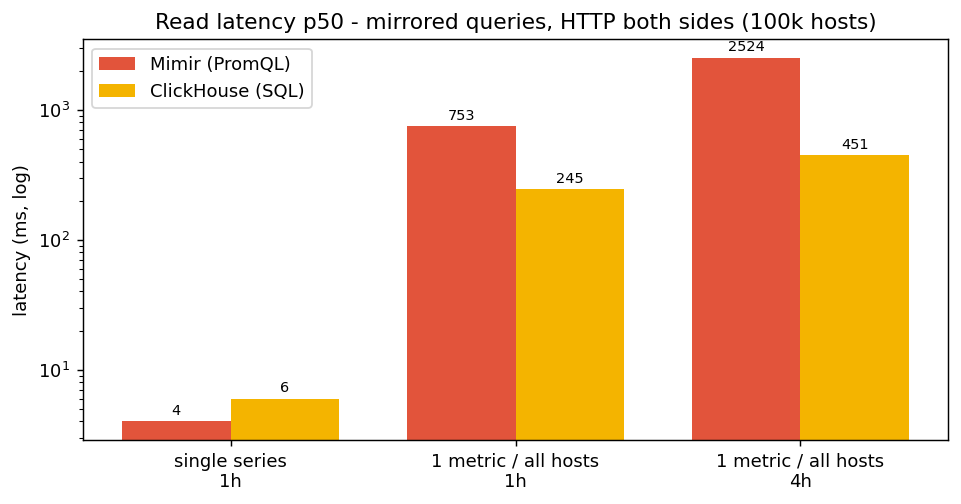
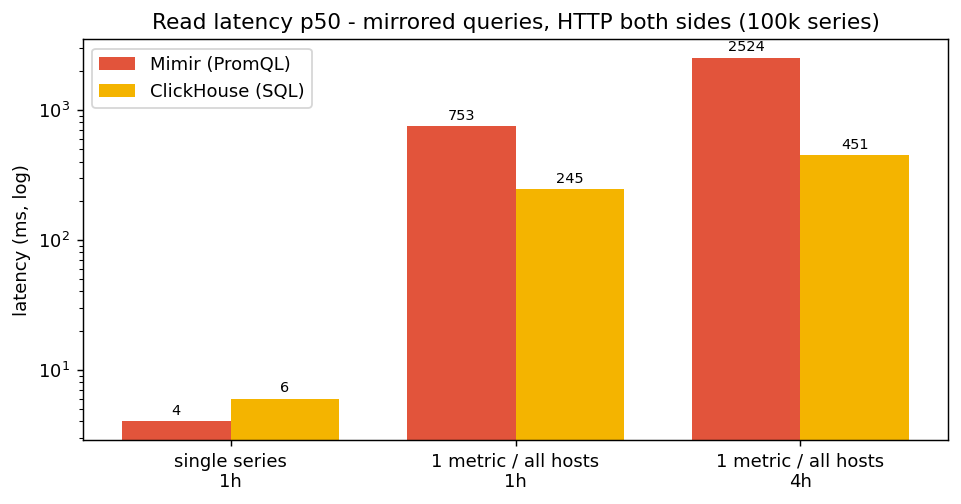
docs: Tier 1 README clarity fixes
- Storage: show 1-copy (2.88 GiB) and RF=2 (~5.76 GiB) footprints; compression
  is the real win, total footprint is close to Mimir once replication counts
- Read chart title: 100k hosts -> 100k series (10k hosts x 10 metrics)
- Disambiguate the coincidental 355 s (Mimir = 72M slice, ~5300 s full-scale;
  ClickHouse RF=3 = full 1.08 B)
- Pin the CPU-time multiplier to one RF=3 basis (~590 vs ~28,700 = ~49x) across
  table, prose, caveat and chart; mono comparison 22x -> 18x

Regenerated docs/charts/cpu_time.png and read_gradient.png.

Claude-Session: https://claude.ai/code/session_01Q2r3hZTuTyfpBMdWWRLmXr

Changed region(s): [[0.1561, 0.0298, 0.9365, 0.0595]]

diff --git a/scripts/plots.py b/scripts/plots.py
@@ -48,8 +48,8 @@ save(fig, "write_throughput.png")
 
 # 2) CPU-time to ingest the full dataset (core-seconds), log scale.
 fig, ax = plt.subplots(figsize=(6.5, 4))
-bars(ax, ["ClickHouse\n(ingest+RF=2)", "Mimir mono\n(RF=1)", "Mimir cluster\n(RF=3)"],
-     [500, 10800, 28700], [CH, MI, MI], lambda v: f"{v:,.0f}")
+bars(ax, ["ClickHouse\n(ingest+RF=3)", "Mimir mono\n(RF=1)", "Mimir cluster\n(RF=3)"],
+     [590, 10800, 28700], [CH, MI, MI], lambda v: f"{v:,.0f}")
 ax.set_yscale("log")
 ax.set_ylabel("CPU-time (core-seconds, log)")
 ax.set_title("CPU cost to ingest 1.08 B points")
@@ -71,7 +71,7 @@ for bs in (b1, b2):
 ax.set_yscale("log")
 ax.set_xticks(list(x)); ax.set_xticklabels(groups)
 ax.set_ylabel("latency (ms, log)")
-ax.set_title("Read latency p50 - mirrored queries, HTTP both sides (100k hosts)")
+ax.set_title("Read latency p50 - mirrored queries, HTTP both sides (100k series)")
 ax.legend()
 save(fig, "read_gradient.png")
 

diff --git a/README.md b/README.md
@@ -101,9 +101,13 @@ Measured paths for the same 1.08 billion points:
 
 **Equal replication (RF=3).** Replicating ClickHouse to RF=3 (108M rows to three replicas,
 324M row-copies) took 82 s of server-side work on top of the client ingest, so a fully RF=3
-ClickHouse lands the dataset in roughly 355 s and about 590 core-seconds. Even at the same RF=3
-as Mimir, that is ~15x faster and ~49x cheaper in CPU than Mimir's cluster run. The RF asymmetry
-is not what drives the gap.
+ClickHouse lands the **full 1.08 B points** in roughly 355 s and about 590 core-seconds. Even at
+the same RF=3 as Mimir, that is ~15x faster and ~49x cheaper in CPU than Mimir's cluster run. The
+RF asymmetry is not what drives the gap.
+
+(Watch the table: the Mimir real-time row is also 355 s, but that is for a 72M-point now-anchored
+slice, not the full dataset. Full-scale Mimir at 203 k/s would take ~5,300 s, in line with the
+backfill. The two 355 s figures are a coincidence, not parity.)
 
 Read the ClickHouse and Mimir rows with the asymmetry in mind (see Caveats): the ClickHouse
 client path is single node, and its cluster writes are server-side INSERT SELECT with no client
@@ -127,12 +131,16 @@ top of the ingest, so even a replicated ClickHouse finishes the volume in minute
 
 ### Storage
 
-| | ClickHouse (one copy) | Mimir (RustFS blocks) |
+| | ClickHouse | Mimir (RustFS blocks) |
 |---|---|---|
-| On disk | 2.88 GiB (4.4x compression) | 6.0 GiB |
+| On disk, one copy | 2.88 GiB (4.4x compression) | 6.0 GiB |
+| On disk, as replicated | ~5.76 GiB (RF=2) | 6.0 GiB (one compacted copy, S3-durable) |
 
-Different durability models, so read this loosely: ClickHouse replicates across the cluster at
-RF=2, while Mimir keeps one compacted copy in object storage with durability handled by S3.
+The real ClickHouse win here is **compression** (4.4x): one copy is ~2x smaller than Mimir's
+blocks. Total footprint is a different story and depends on the durability model. ClickHouse
+stores RF=2 on cluster disks (~5.76 GiB), while Mimir keeps a single compacted copy in object
+storage and leans on S3 for durability. Counting replication, the two land close together, so
+don't read the 2.88-vs-6.0 gap as a 2x storage saving.
 
 ### Resource consumption during the write (from SigNoz)
 
@@ -141,17 +149,19 @@ RF=2, while Mimir keeps one compacted copy in object storage with durability han
 | CPU, client ingest (single node) | ~1.45 cores on the busiest node | not applicable |
 | CPU, cluster write | ~2.3 cores across 4 nodes (RF=2 INSERT SELECT) | ~5.5 cores across 3 pods |
 | Peak memory | ~1.0 GiB (busiest node) | ~0.9 GiB per pod |
-| CPU-time for the full dataset | ~500 core-seconds (ingest + RF=2 replicate) | ~28,700 core-seconds (RF=3) |
+| CPU-time for the full dataset | ~590 core-seconds (ingest + RF=3 replicate) | ~28,700 core-seconds (RF=3) |
 
-Mimir spent roughly 50x more CPU-time than ClickHouse for the same data. The replication factor
-(3 vs 2) explains only about 1.5x of that. The rest is architectural: the per-sample remote-write
-path (protobuf, RF fan-out, TSDB head) against columnar batch inserts.
+At equal replication (RF=3 on both sides), Mimir spent ~49x more CPU-time than ClickHouse for the
+same data (~590 vs ~28,700 core-seconds). Since the RF is now equal, that whole gap is
+architectural, not replication: the per-sample remote-write path (protobuf, RF fan-out, TSDB head)
+against columnar batch inserts. (Measured directly, the ClickHouse ingest + RF=2 replicate was
+~500 core-seconds; the +90 to RF=3 is the third copy.)
 
 To separate the cost of clustering from the engine itself, a single-instance monolithic Mimir
 (RF=1, no gossip) was also run: it ingested at 296 k/s using ~10,800 core-seconds, versus the
 3-node RF=3 cluster's 205 k/s and ~28,700 core-seconds. So dropping clustering and RF=3 makes
-Mimir about 1.4x faster and ~2.6x cheaper, but it is still ~22x the CPU-time of ClickHouse. Most
-of the gap is the engine and protocol, not the cluster. (See `k8s/40-mimir-mono.yaml`.)
+Mimir about 1.4x faster and ~2.6x cheaper, but it is still ~18x the CPU-time of the RF=3 ClickHouse.
+Most of the gap is the engine and protocol, not the cluster. (See `k8s/40-mimir-mono.yaml`.)
 
 ### Continuous ingestion and ClickHouse's merge tax
 
@@ -289,7 +299,7 @@ the ratios:
   scale-out to perform (it used ~1 core). So the **throughput** ratios are the numbers most likely
   to narrow on real multi-node hardware, where Mimir would scale up (the bulk write gap is ~19x
   single-node RF=1 vs Mimir RF=3, ~15x at equal RF=3, and ~2.5x under continuous small writes). The
-  **efficiency** ratios (CPU-time per sample ~50x, storage) are architectural and largely
+  **efficiency** ratios (CPU-time per sample ~49x, storage) are architectural and largely
   node-count independent, so they are the more portable figures. Related, measured: a Distributed
   ClickHouse read on this single node was *slower* than the single-node table (overhead without
   real parallelism), so the mono-node ClickHouse reads reported here are its best case on this box,